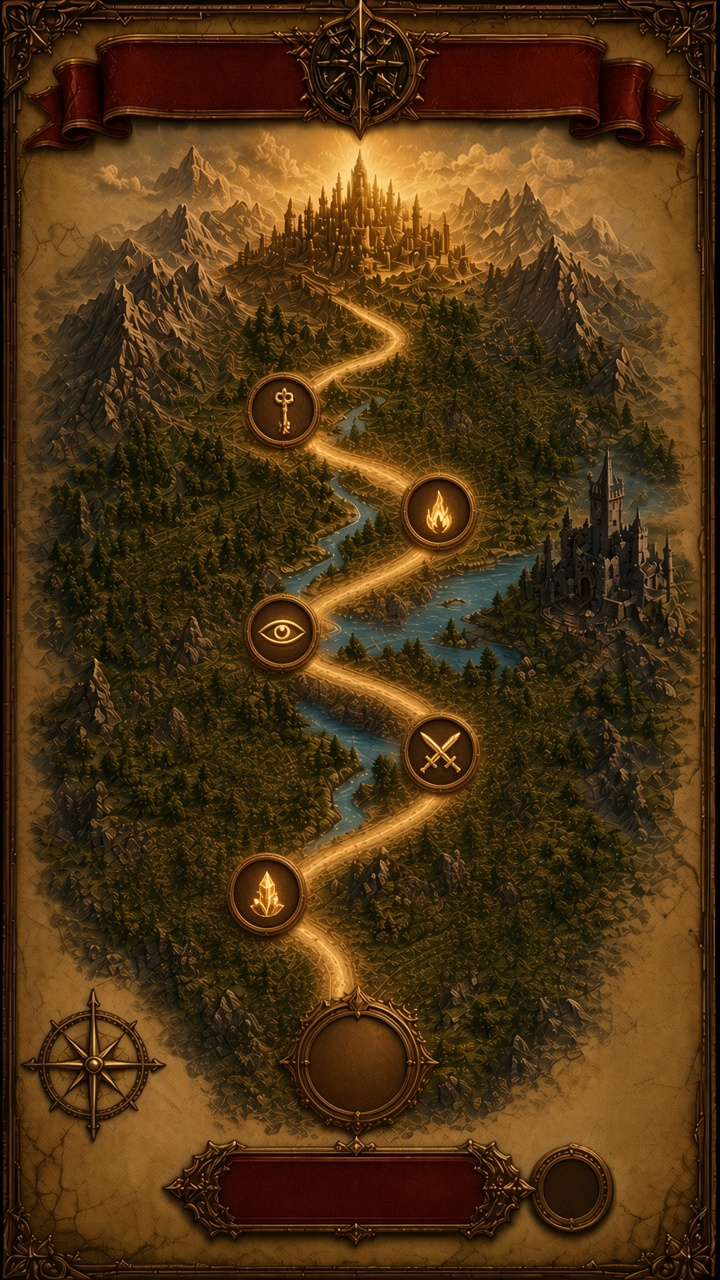
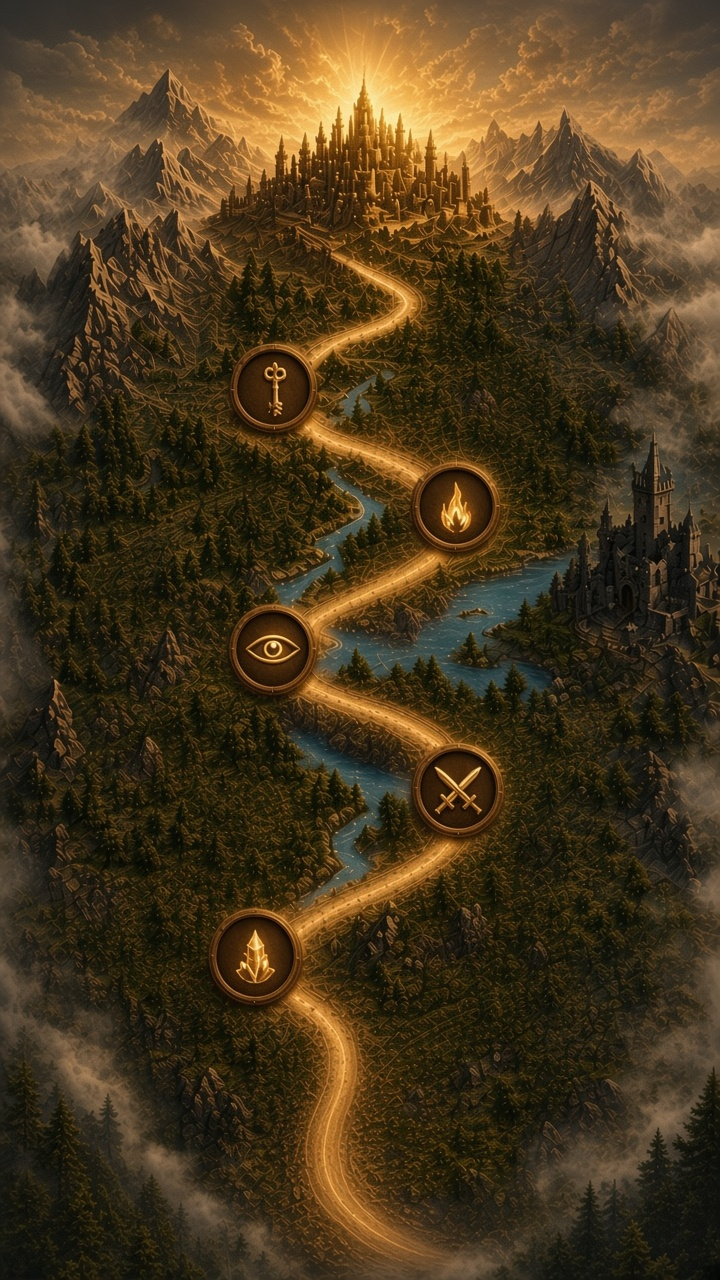
game: map v5 large S-road, dock above nav, info emblem

diff --git a/game/map.html b/game/map.html
@@ -4,33 +4,32 @@
 <meta name="apple-mobile-web-app-capable" content="yes"><meta name="mobile-web-app-capable" content="yes"><meta name="apple-mobile-web-app-status-bar-style" content="black-translucent"><meta name="theme-color" content="#5a3a14">
 <link href="https://fonts.googleapis.com/css2?family=Cormorant+Garamond:wght@500;600;700&family=Manrope:wght@400;500;600;700;800&display=swap" rel="stylesheet">
 <link rel="stylesheet" href="nav.css">
-<style>
-html,body{margin:0;height:100%;overflow:hidden;background:#3a240c}
-.map{position:fixed;left:0;right:0;top:0;bottom:calc(78px + env(safe-area-inset-bottom));background:url(img/map_bg.jpg?v=4) center/cover no-repeat;overflow:hidden}
-.o{position:absolute;transform:translate(-50%,-50%);text-decoration:none}
-.ttl{font:700 30px 'Cormorant Garamond',serif;color:#ffe6a8;text-shadow:0 2px 3px #3a0a05;white-space:nowrap}
-.step{border-radius:50%;cursor:pointer}
-.start{border-radius:50%;display:flex;align-items:center;justify-content:center;font:700 26px 'Cormorant Garamond',serif;color:#ffe6a8;text-shadow:0 2px 3px #000;animation:p 2s infinite}
+<style>html,body{margin:0;height:100%;overflow:hidden;background:#2a1c0c}
+.map{position:fixed;left:0;right:0;top:0;bottom:calc(78px + env(safe-area-inset-bottom));background:#2a1c0c url(img/map_bg.jpg?v=5) no-repeat;overflow:hidden}
+.o{position:absolute;transform:translate(-50%,-50%);border-radius:50%}
+.dock{position:absolute;left:0;right:0;bottom:14px;height:168px}
+.cont{position:absolute;left:50%;bottom:0;transform:translateX(-50%);width:262px;height:70px;background:url(img/btn_plate.png) center/100% 100%;display:flex;align-items:center;justify-content:center;font:700 23px 'Cormorant Garamond',serif;color:#ffe6a8;text-shadow:0 2px 3px #3a0a05;text-decoration:none;white-space:nowrap}
+.start{position:absolute;left:50%;bottom:72px;transform:translateX(-50%);width:92px;height:92px;border-radius:50%;background:url(img/start.png) center/100%;display:flex;align-items:center;justify-content:center;font:700 25px 'Cormorant Garamond',serif;color:#ffe6a8;text-shadow:0 2px 3px #000;text-decoration:none;animation:p 2s infinite}
 @keyframes p{0%,100%{box-shadow:0 0 6px 2px rgba(255,211,106,.5)}50%{box-shadow:0 0 26px 10px rgba(255,211,106,.85)}}
-.cont{display:flex;align-items:center;justify-content:center;font:700 23px 'Cormorant Garamond',serif;color:#ffe6a8;text-shadow:0 2px 3px #3a0a05;white-space:nowrap}
-.info{display:flex;align-items:center;justify-content:center;font:700 30px 'Cormorant Garamond',serif;color:#ffe6a8;border-radius:50%}
+.cmp,.inf{position:absolute;bottom:84px;width:70px;height:70px}.cmp{left:12px}.inf{right:12px}
+.cmp img,.inf img{width:100%;height:100%;object-fit:contain;filter:drop-shadow(0 2px 4px rgba(0,0,0,.6))}.cmp img{border-radius:50%}
 </style></head><body data-page="map">
 <div class="map" id="m">
-<div class="o ttl" data-x="160" data-y="64">Карта пути</div>
-<a class="o step" href="#soon" data-x="226" data-y="327" data-r="60"></a>
-<a class="o step" href="#soon" data-x="350" data-y="410" data-r="60"></a>
-<a class="o step" href="#soon" data-x="226" data-y="506" data-r="60"></a>
-<a class="o step" href="#soon" data-x="352" data-y="604" data-r="60"></a>
-<a class="o step" href="#soon" data-x="213" data-y="716" data-r="60"></a>
-<a class="o start" href="form.html" data-x="287" data-y="850" data-r="94">Старт</a>
-<a class="o cont" href="#soon" data-x="282" data-y="950" data-w="240" data-h="52">Продолжить путь</a>
-<a class="o info" href="#soon" data-x="458" data-y="950" data-r="56">i</a>
-</div>
+<a class="o step" href="#soon" data-x="218" data-y="310" data-r="62"></a>
+<a class="o step" href="#soon" data-x="364" data-y="404" data-r="62"></a>
+<a class="o step" href="#soon" data-x="218" data-y="519" data-r="62"></a>
+<a class="o step" href="#soon" data-x="366" data-y="631" data-r="62"></a>
+<a class="o step" href="#soon" data-x="205" data-y="764" data-r="62"></a>
+<div class="dock">
+<a class="cmp" href="#soon" aria-label="Компас"><img src="img/compass.png" alt=""></a>
+<a class="start" href="form.html"><span>Старт</span></a>
+<a class="inf" href="#soon" aria-label="Информация"><img src="img/info.png" alt=""></a>
+<a class="cont" href="#soon">Продолжить путь</a>
+</div></div>
 <script>
-function lay(){var m=document.getElementById('m'),W=m.clientWidth,H=m.clientHeight,s=Math.max(W/576,H/1024),ox=(W-576*s)/2,oy=(H-1024*s)/2;
-m.querySelectorAll('.o').forEach(function(e){var d=e.dataset;e.style.left=(ox+d.x*s)+'px';e.style.top=(oy+d.y*s)+'px';
-if(d.r){e.style.width=e.style.height=(d.r*s)+'px'}if(d.w){e.style.width=d.w*s+'px';e.style.height=d.h*s+'px'}});
-var t=m.querySelector('.ttl');t.style.fontSize=Math.min(26,22*s/0.68)+'px'}
+function lay(){var m=document.getElementById('m'),W=m.clientWidth,H=m.clientHeight,s=Math.max(W/576,H/1024),ox=(W-576*s)/2,oy=H-1024*s;
+m.style.backgroundSize=576*s+'px '+1024*s+'px';m.style.backgroundPosition=ox+'px '+oy+'px';
+m.querySelectorAll('.o').forEach(function(e){var d=e.dataset;e.style.left=(ox+d.x*s)+'px';e.style.top=(oy+d.y*s)+'px';e.style.width=e.style.height=(d.r*s)+'px'})}
 addEventListener('resize',lay);lay();
 </script>
 <script src="nav.js"></script>
